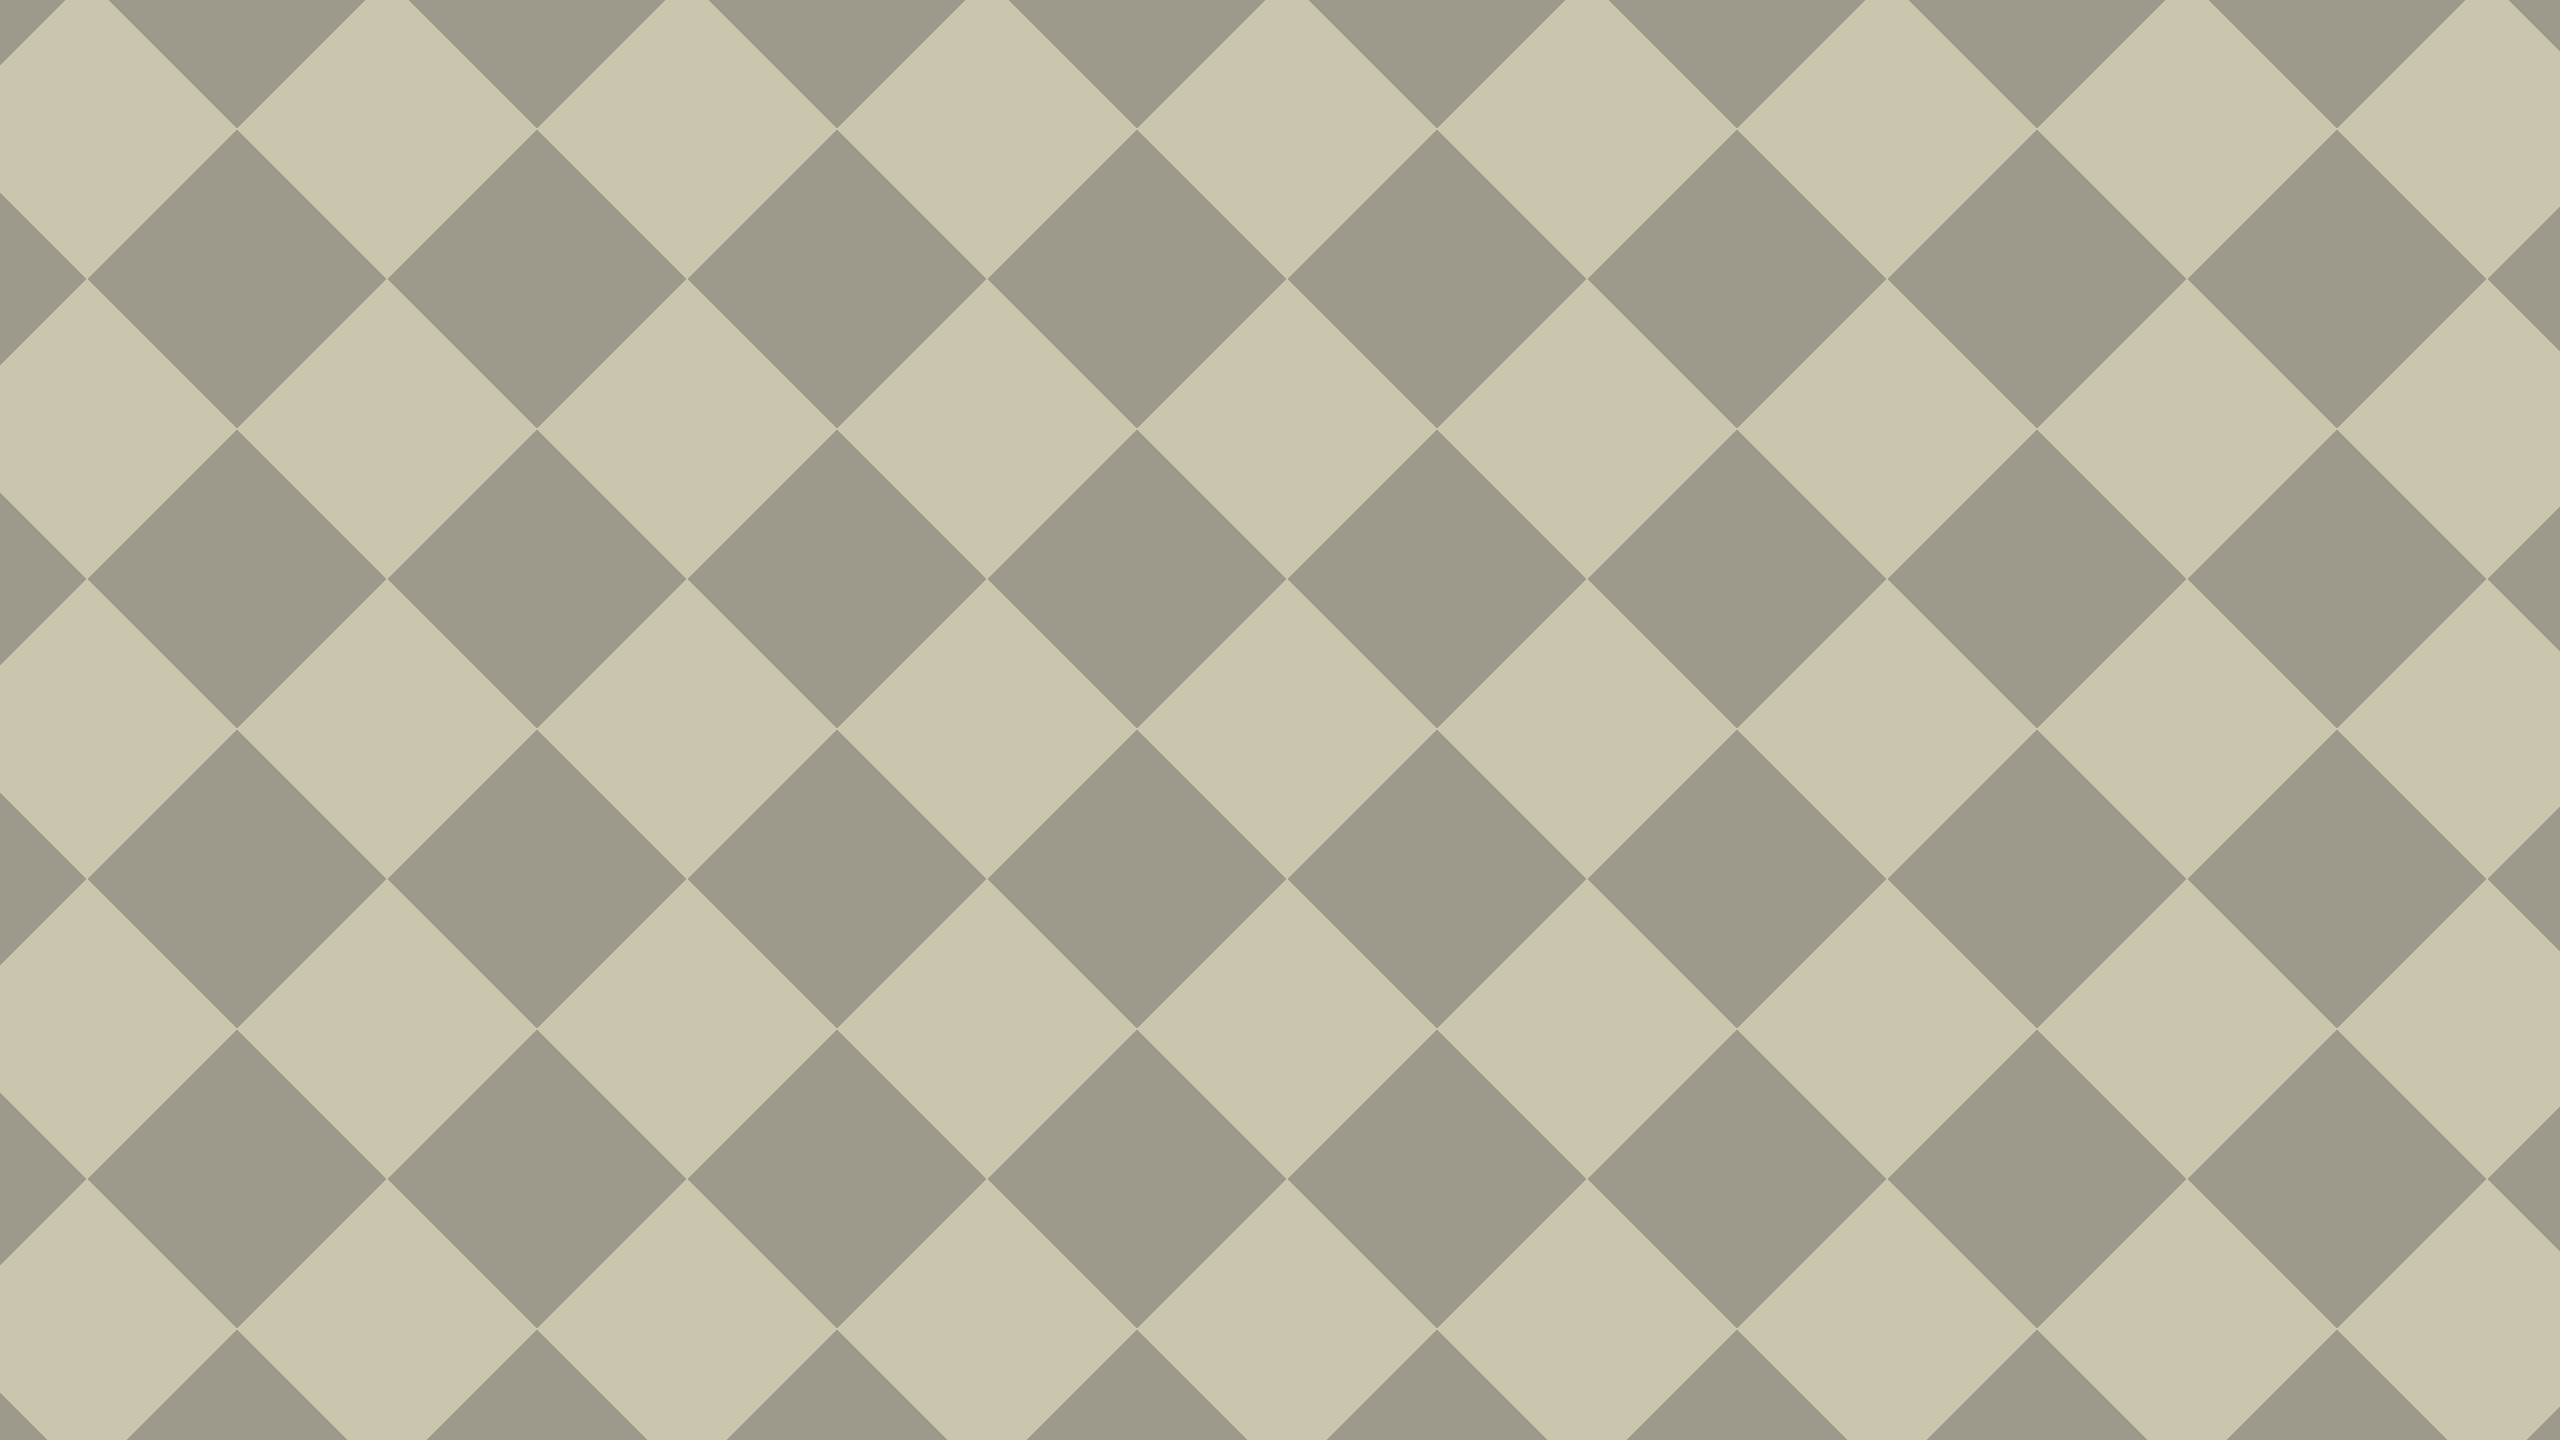
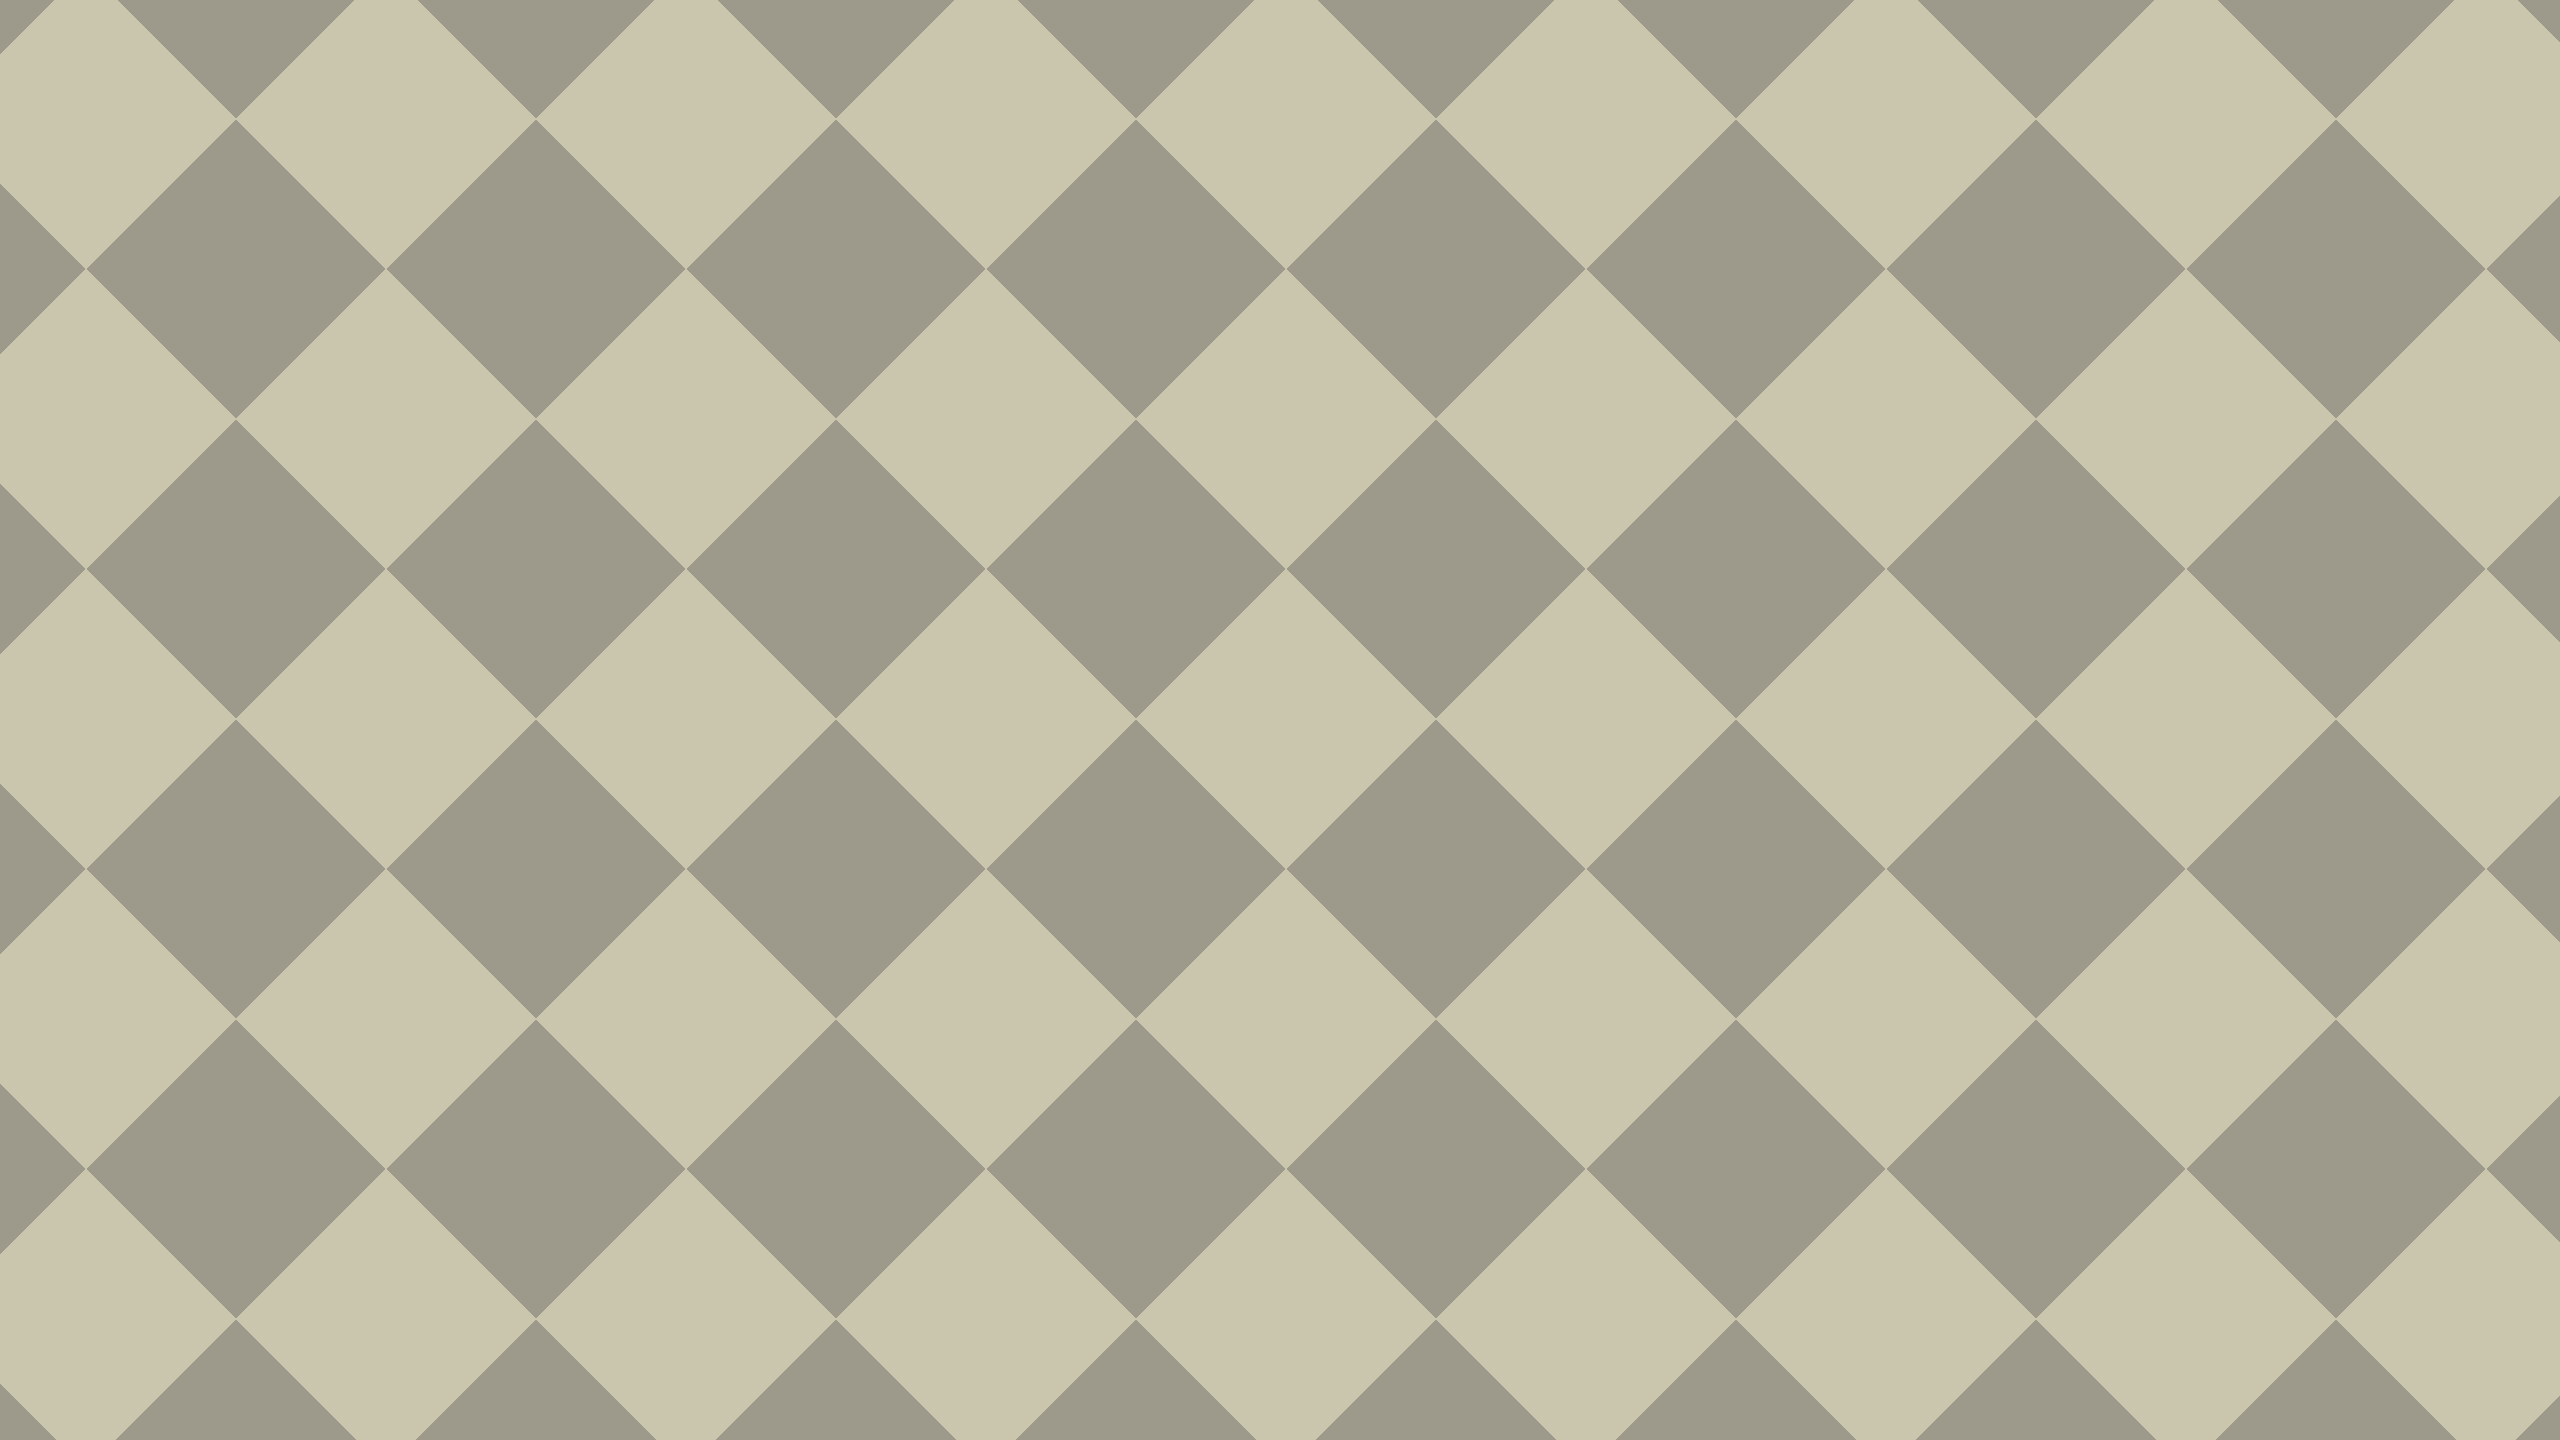
fixing background

diff --git a/src/app/globals.css b/src/app/globals.css
@@ -27,14 +27,21 @@ body {
 
 @keyframes parallax {
   0% {
-    transform: translate(0px, 0px);
+    background-position: 0 0;
   }
 
   100% {
-    transform: translate(-240px, -240px);
+    background-position: -2000px -2000px;
   }
 }
 
 .animate-parallax {
   animation: parallax 60s linear infinite;
+}
+
+/* This is the key part */
+.bg-tile {
+  background-image: url("/public/images/background.png");
+  background-repeat: repeat;
+  background-size: auto;
 }

diff --git a/src/app/page.js b/src/app/page.js
@@ -3,12 +3,9 @@ export default function CreativeHomepage() {
     <main className="min-h-screen text-white overflow-x-hidden relative">
 
       {/* Moving Background */}
-      <div
-        className="fixed inset-0 bg-cover bg-center scale-125 animate-parallax"
-        style={{
-          backgroundImage: "url('/images/background.png')",
-        }}
-      />
+      <div className="fixed inset-0 overflow-hidden">
+        <div className="absolute inset-0 animate-parallax bg-tile" />
+      </div>
 
       {/* VERY subtle overlay (instead of dark block) */}
       <div className="relative min-h-screen bg-white/5">